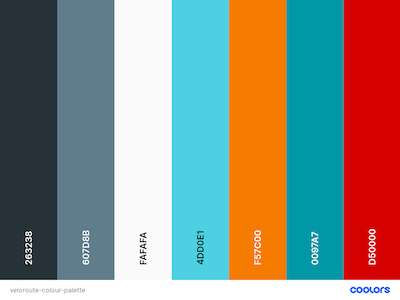
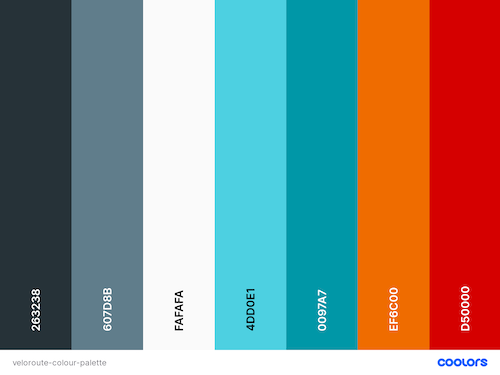
README.md and TESTING.md changes

diff --git a/static/css/style.css b/static/css/style.css
@@ -95,6 +95,7 @@ main {
 }
 
 .card .card-image img {
+    max-height: 300px;
     border-top-left-radius: 10px;
     border-top-right-radius: 10px;
 }
@@ -130,16 +131,16 @@ nav ul a {
 
 /*------------------------------------- home page */
 #hero-image {
-    background: url("https://i.postimg.cc/rmNDq4C7/pexels-pixabay-163305.jpg");
+    background: url("https://i.postimg.cc/DZfqQtgv/veloroute-hero-image.jpg");
     background-size: cover;
     background-position: right center;
-    min-height: 450px;
+    min-height: 50vh;
     width: 100%;
     padding: 15px;
 }
 
 #tagline {
-    padding-top: 15%;
+    padding-top: 10%;
     padding-left: 55%;
     margin-bottom: 0;
     color: #fafafa;
@@ -151,7 +152,9 @@ nav ul a {
 }
 
 #join-us-button {
+    border-radius: 10px !important;
     margin-top: 50px;
+    font-size: 30px;
 }
 
 /*------------------------------------- search */

diff --git a/templates/index.html b/templates/index.html
@@ -16,8 +16,8 @@
             <h5 class="center-align">
                 Road, gravel, trail or commute?<br><br>Want to try a new route but stuck for ideas?<br><br>Our members submit their favourite cycling routes so you can quickly find a new route or add your own for others to enjoy.
             </h5>
-            <div class="row" id="join-us-button">
-                <a href="{{ url_for('join_us') }}" class="col s6 offset-s3 m4 offset-m4 btn-large orange darken-2">Join Us
+            <div class="row">
+                <a href="{{ url_for('join_us') }}" id="join-us-button" class="col s6 offset-s3 m4 offset-m4 btn-large orange darken-3">Join Us
                 </a>
             </div>
         </div>

diff --git a/templates/edit_route.html b/templates/edit_route.html
@@ -68,7 +68,7 @@
                     <input id="route_name" name="route_name" type="text"
                         value="{{- route.route_name -}}" minlength="5" maxlength="30" pattern="([^\s][A-z0-9À-ž\s]+)$" class="validate" required>
                     <label for="route_name">Route Name</label>
-                    <span class="helper-text" data-error="5-50 characters, letters and numbers only" data-success="Valid Input"></span>
+                    <span class="helper-text" data-error="5-30 characters, letters and numbers only" data-success="Valid Input"></span>
                 </div>
             </div>
             <!-- route image -->

diff --git a/templates/routes.html b/templates/routes.html
@@ -33,7 +33,7 @@
   {% if routes.count() > 0 %}
   <div class="row">
     {% for route in routes %}
-    <div class="col s12 m6 l4">
+    <div class="col s12 m6 xl4">
       <div class="card grey lighten-5 z-depth-4">
         <div class="card-image waves-effect waves-block waves-light">
           <img class="activator" src="{{ route.route_image }}" alt="Route Image">

diff --git a/app.py b/app.py
@@ -23,9 +23,9 @@ mongo = PyMongo(app)
 @app.route("/")
 def index():
     # first six routes for medium and large devices
-    med_large_routes = mongo.db.routes.find().limit(6)
+    med_large_routes = mongo.db.routes.find().sort("_id",-1).limit(6)
     # first four routes for mobile devices
-    small_routes = mongo.db.routes.find().limit(3)
+    small_routes = mongo.db.routes.find().sort("_id",-1).limit(3)
     return render_template(
         "index.html", med_large_routes=med_large_routes,
         small_routes=small_routes)

diff --git a/README.md b/README.md
@@ -114,7 +114,7 @@ VeloRoute features a clean and simple design with #263238 used for dark backgrou
 
 A simple VeloRoute logo was created using Canva.
 
-![VeloRoute logo](static/images/veloroute_logo_crop.png)
+![VeloRoute logo](staticdesign/images/veloroute_logo_crop.png)
 
 #### Colours
 
@@ -124,7 +124,7 @@ A simple colour palette using #263238 for navigation and footer backgrounds and 
 
 All icons with the exception of the social media icons use colour #607D8B. Social media icons in footer are the same colour as the footer text #FAFAFA.
 
-Colours have been used for flash messages and action buttons. #4DD0E1 has been used for the flash messages background, #F57C00 for the call to action button on the home page, #0097A7 for action buttons throughout the site and #D50000 for all delete buttons.
+Colours have been used for flash messages and action buttons. #4DD0E1 has been used for the flash messages background, #EF6C00 for the call to action button on the home page, #0097A7 for action buttons throughout the site and #D50000 for all delete buttons.
 
 Images are used to add some additional colour to the website.
 
@@ -316,7 +316,7 @@ To clone this project from GitHub.
 
 #### Heroku Deployment  
 1. Set up local workspace for Heroku 
-    - In terminal window of your IDE type: **pip3 freeze -- local > requirements.txt.** (The file is needed for Heroku to know which filed to install.)
+    - In terminal window of your IDE type: **pip3 freeze -- local > requirements.txt.** (The file is needed for Heroku to know which files to install.)
     - In termial window of your IDE type: **python app.py > Procfile** (The file is needed for Heroku to know which file is needed as entry point.)
 2. Set up Heroku: create a Heroku account and create a new app and select your region. 
 3. Deployment method 'Github'

diff --git a/TESTING.md b/TESTING.md
@@ -110,7 +110,8 @@ The user stories below have all been tested against defined acceptance criteria.
 ## Defects
 
 1.  It was discovered during testing that the Matrialize modals implementented to confirm the deletion of items across the app were deleting the wrong object. This was resolved by implementing loop indexing which had to be further refined on the Manage Categories page to loop through the individual gategory types to ensure the correct object id was sourced for deletion.
-2.  It was noticed during testing that the Materialize sticky footer functionality had stopped working. This was resolved by changing the code for the base.html page to revise the structure and removing an erroneous character from the related CSS code. 
+2.  It was noticed during testing that the Materialize sticky footer functionality had stopped working. This was resolved by changing the code for the base.html page to revise the structure and removing an erroneous character from the related CSS code.
+3.  A defect was discovered that the images that were presented on the home page were in the reverse order to those on the routes and profile page. This was corrected by adding a reverse sort order to the query for the home page display for small and medium/large devices. The images now display with the most recently added first as with the profile and home pages.
 
 ---
 
